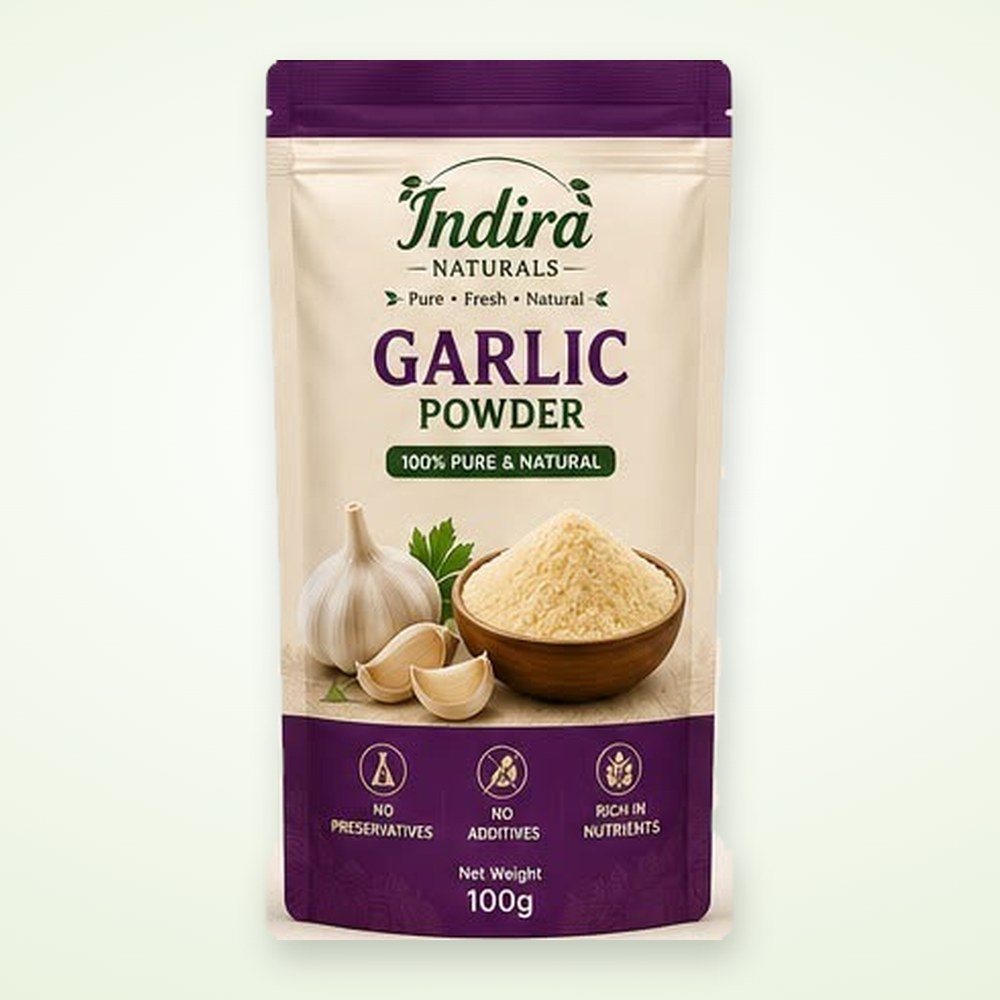
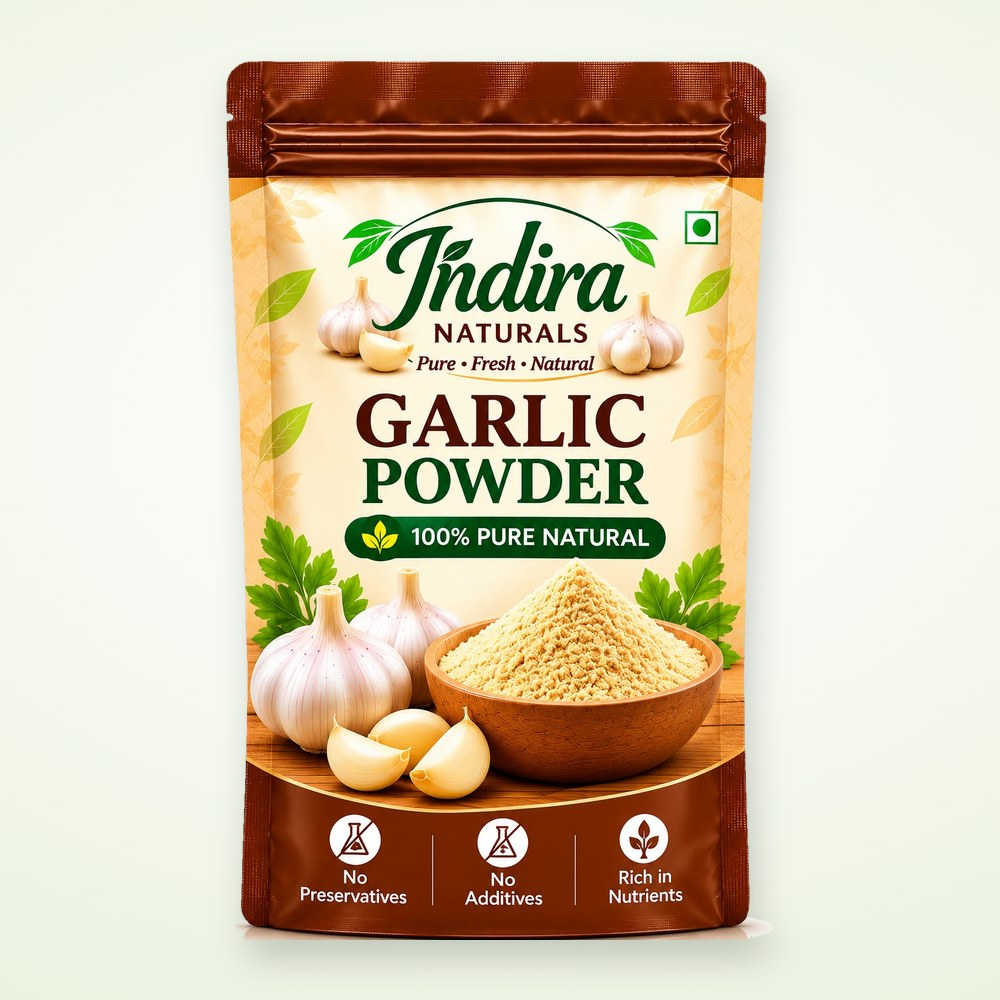
Use new brown packet designs for Ginger, Garlic and Ginger Garlic
Rebuild front/back/combined images from new packet cut-outs, add front+back pair photos, refresh homepage packets and add a 5-packet lineup; remove unused old images.

diff --git a/src/app/(site)/our-story/page.tsx b/src/app/(site)/our-story/page.tsx
@@ -120,9 +120,9 @@ export default function AboutPage() {
 
           <RevealOnScroll delay={0.1}>
             <div className="glass h-full rounded-2xl p-6">
-              <h3 className="font-serif text-xl text-brand-forest">Three variants, four sizes</h3>
+              <h3 className="font-serif text-xl text-brand-forest">Five powders, four sizes</h3>
               <div className="relative mt-4 aspect-[2/1] overflow-hidden rounded-xl bg-white">
-                <Image src="/images/products/ginger-sizes.jpg" alt="Ginger powder pouches in 50g, 100g, 500g and 1kg" fill sizes="(min-width:1024px) 560px, 90vw" className="object-cover" />
+                <Image src="/images/products/lineup.jpg" alt="Indira Naturals Ginger, Garlic, Ginger Garlic, Onion and Tomato powder pouches" fill sizes="(min-width:1024px) 560px, 90vw" className="object-cover" />
               </div>
               <dl className="mt-4 grid grid-cols-1 gap-3 sm:grid-cols-2">
                 {PACK_FACTS.map((f) => (
@@ -132,7 +132,6 @@ export default function AboutPage() {
                   </div>
                 ))}
               </dl>
-              <p className="mt-3 text-sm text-brand-charcoal/70">Gift box with all three variants. Box size: 20 × 14 × 21 cm.</p>
             </div>
           </RevealOnScroll>
         </div>

diff --git a/src/db/seed.ts b/src/db/seed.ts
@@ -49,9 +49,9 @@ const seedProducts: SeedProduct[] = [
     gallery: [
       "/images/products/ginger-front.jpg",
       "/images/products/ginger-back.jpg",
+      "/images/products/ginger-front-back.jpg",
       "/images/products/ginger-combined.jpg",
       "/images/products/ginger-benefits.jpg",
-      "/images/products/ginger-sizes.jpg",
     ],
     ingredients: "100% Ginger",
     netWeightLabel: SIZES,
@@ -80,9 +80,9 @@ const seedProducts: SeedProduct[] = [
     gallery: [
       "/images/products/garlic-front.jpg",
       "/images/products/garlic-back.jpg",
+      "/images/products/garlic-front-back.jpg",
       "/images/products/garlic-combined.jpg",
       "/images/products/garlic-benefits.jpg",
-      "/images/products/garlic-display.jpg",
     ],
     ingredients: "100% Garlic",
     netWeightLabel: SIZES,
@@ -111,9 +111,9 @@ const seedProducts: SeedProduct[] = [
     gallery: [
       "/images/products/ginger-garlic-front.jpg",
       "/images/products/ginger-garlic-back.jpg",
+      "/images/products/ginger-garlic-front-back.jpg",
       "/images/products/ginger-garlic-combined.jpg",
       "/images/products/ginger-garlic-benefits.jpg",
-      "/images/products/ginger-garlic-display.jpg",
     ],
     ingredients: "Ginger, Garlic",
     netWeightLabel: SIZES,

diff --git a/src/app/layout.tsx b/src/app/layout.tsx
@@ -44,7 +44,7 @@ export const metadata: Metadata = {
       "Ginger and garlic, ready when you are. 100% pure natural powders with nothing added.",
     url: siteUrl,
     siteName: "Indira Naturals",
-    images: ["/images/products/all-variants.jpg"],
+    images: ["/images/products/lineup.jpg"],
     locale: "en_IN",
     type: "website",
   },
@@ -53,7 +53,7 @@ export const metadata: Metadata = {
     title: "Indira Naturals | Pure Ingredients. Naturally Better.",
     description:
       "Ginger and garlic, ready when you are. 100% pure natural powders with nothing added.",
-    images: ["/images/products/all-variants.jpg"],
+    images: ["/images/products/lineup.jpg"],
   },
 };
 

diff --git a/src/lib/brand.ts b/src/lib/brand.ts
@@ -65,7 +65,7 @@ export const PACK_FACTS = [
   { title: "Pouch", body: "Matte, food-grade, multi-layer laminated stand-up pouch" },
   { title: "Seal", body: "Heat sealed with a zip lock, printed with food-safe inks" },
   { title: "Shelf life", body: "Best before 12 months from the date of manufacturing" },
-  { title: "Sizes", body: "50 g, 100 g, 500 g and 1 kg in all three variants" },
+  { title: "Sizes", body: "50 g, 100 g, 500 g and 1 kg for every powder" },
 ];
 
 // Certificates & licences. Add the image file to public/images/certificates/ and set `image`.
